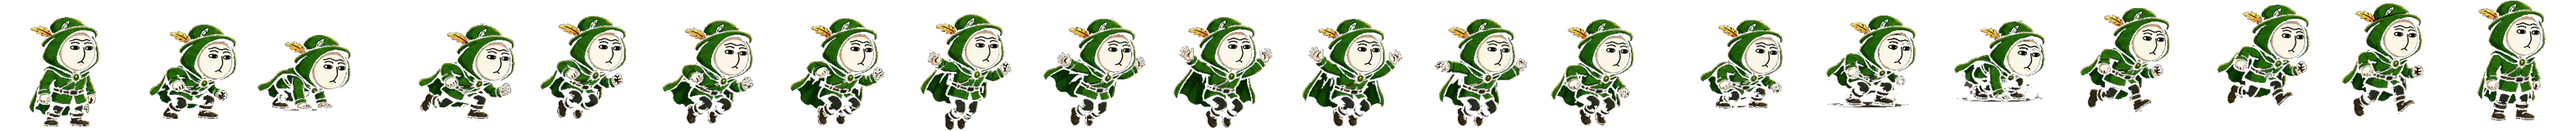
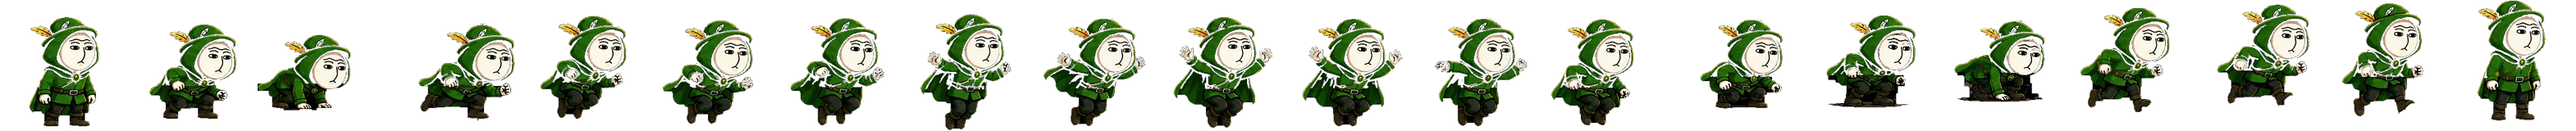
Hood Runner: new-high-score screen, fix shoe transparency, hatch shadow, bigger tap target
New high score screen (distinct from a normal game over):
  NEW HIGH SCORE!
        1,528
  PRESS SPACE TO RUN AGAIN
Regular (non-record) game overs keep the existing RUGGED! / score / continue
layout.

Character sprites: fixed the residual transparent notches in the legs/feet
that survived the previous flood-fill fix. Root cause: the shoe soles are
literally the same pure-black RGB as the background (verified byte-for-
byte), so no colour threshold can tell them apart -- only topology can.
Fix is a spatial blend per frame: the border-connected flood fill (safe
everywhere, used as-is for arms/torso/underarm gaps) is replaced with an
eroded-and-reconstructed version (severs the shoe-to-background bridge)
specifically in each frame's own bottom ~35% (the foot band, computed from
that frame's silhouette, not a fixed pixel line -- jump poses sit higher
than run poses). A safety-net pass also inpaints any leftover enclosed
hole with its nearest opaque neighbour's colour, per the ask to just
repaint any remaining gaps in the character's own tone.

Added a diagonal pencil-hatch shading strip along the inside bottom edge
of the game box, sitting in the dead band below the ground line so it
never covers live gameplay -- reads as a sketched drop shadow for a bit
of 3D lift, matching the site's hand-drawn aesthetic.

Tap-to-jump now listens on the whole #game section instead of just the
canvas, since that's a small target on a phone -- real links/buttons
[…]

diff --git a/js/dino-game.js b/js/dino-game.js
@@ -188,13 +188,18 @@ if (canvas) {
 
   function endRun() {
     state = STATE.OVER;
+    const formatted = Math.floor(score).toLocaleString('en-US');
     if (score > best) {
       best = score;
       try { localStorage.setItem('hoodRunnerBest', String(Math.floor(best))); } catch (err) { /* private mode etc -- best just won't persist */ }
       updateBestLabel();
+      showOverlay('NEW HIGH SCORE!', [
+        { text: formatted, cls: 'hood-game-overlay-score' },
+        'PRESS SPACE TO RUN AGAIN'
+      ]);
+    } else {
+      showOverlay('RUGGED!', ['You scored ' + formatted + ' points', 'Click or press SPACE to continue']);
     }
-    const formatted = Math.floor(score).toLocaleString('en-US');
-    showOverlay('RUGGED!', ['You scored ' + formatted + ' points', 'Click or press SPACE to continue']);
   }
 
   function jump() {
@@ -215,7 +220,12 @@ if (canvas) {
       overlayLines.innerHTML = '';
       lines.forEach((line) => {
         const p = document.createElement('p');
-        p.textContent = line;
+        if (typeof line === 'string') {
+          p.textContent = line;
+        } else {
+          p.textContent = line.text;
+          if (line.cls) p.className = line.cls;
+        }
         overlayLines.appendChild(p);
       });
     }
@@ -394,7 +404,16 @@ if (canvas) {
     e.preventDefault();
     jump();
   });
-  canvas.addEventListener('pointerdown', () => { if (assetsReady) jump(); });
+  // Tap target is the whole section, not just the canvas -- on a small
+  // phone screen the canvas itself is a fiddly target mid-run. Real links
+  // or buttons (none currently live inside #game, but stay defensive) are
+  // left alone so they still work normally instead of being hijacked.
+  const gameSection = document.getElementById('game');
+  (gameSection || canvas).addEventListener('pointerdown', (e) => {
+    if (!assetsReady) return;
+    if (e.target.closest('a, button')) return;
+    jump();
+  });
 
   // ---------- boot ----------
   showOverlay('HOOD RUN', ['Loading…']);

diff --git a/styles.css b/styles.css
@@ -824,11 +824,23 @@
   }
 
   /* ---------- Hood Runner mini-game (index.html, between Lore and Faces) ---------- */
+  #game{cursor:pointer;}
   .hood-game-wrap{
     position:relative; max-width:800px; margin:0 auto;
     border-radius:16px; overflow:hidden;
     border:1px solid var(--line);
     box-shadow:0 20px 40px -16px rgba(0,0,0,0.5);
+  }
+  /* pencil-hatch shading along the inside bottom edge -- sits in the dead
+     band below the ground line, reads as a sketched drop shadow for a bit
+     of 3D lift without ever covering live gameplay */
+  .hood-game-wrap::after{
+    content:"";
+    position:absolute; left:0; right:0; bottom:0; height:34px;
+    background:
+      repeating-linear-gradient(135deg, rgba(32,51,28,0.4) 0 2px, transparent 2px 7px),
+      linear-gradient(to bottom, rgba(32,51,28,0) 0%, rgba(32,51,28,0.14) 100%);
+    pointer-events:none;
   }
   #hoodGameCanvas{
     display:block; width:100%; height:auto; background:var(--cream2);
@@ -859,6 +871,10 @@
   }
   .hood-game-overlay-lines p + p{
     margin-top:6px; font-size:15px; color:#20331c; opacity:0.7;
+  }
+  .hood-game-overlay-lines p.hood-game-overlay-score{
+    font-family:'IBM Plex Mono',monospace; font-size:42px; font-weight:700;
+    letter-spacing:0.02em; color:#8a6a16; margin:4px 0; opacity:1;
   }
 
   /* ---------- press feedback for touch (no :hover, so give taps their own cue) ---------- */
